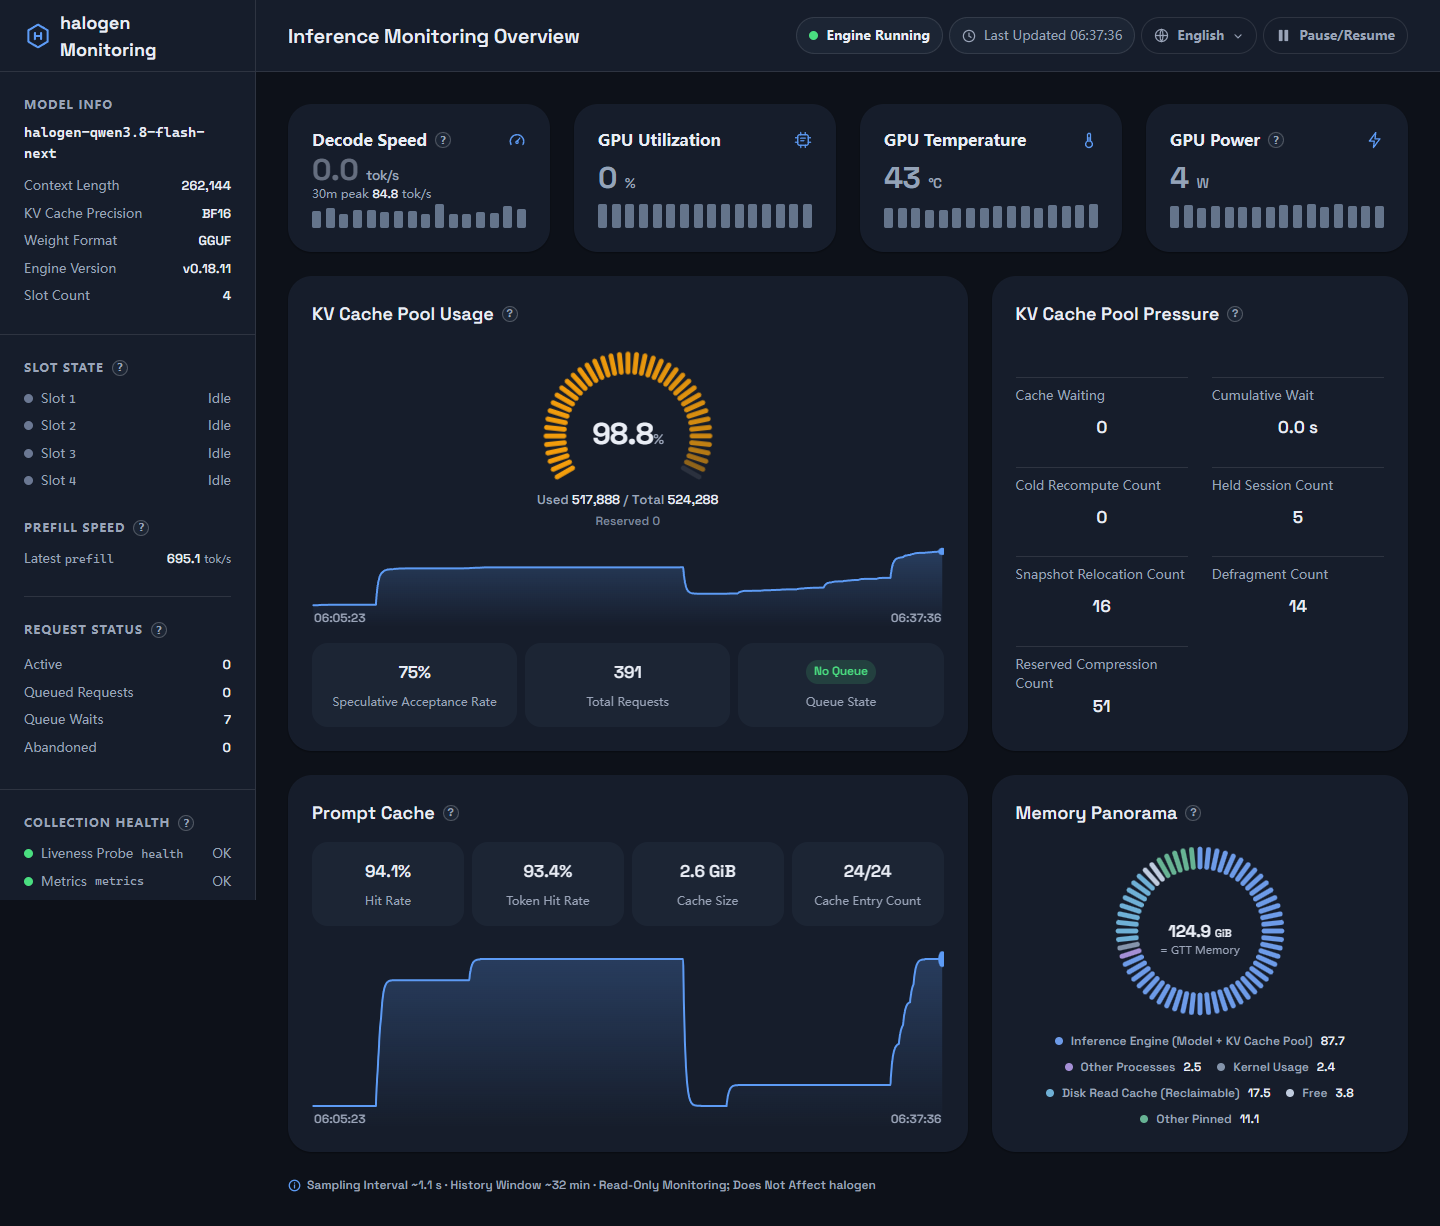
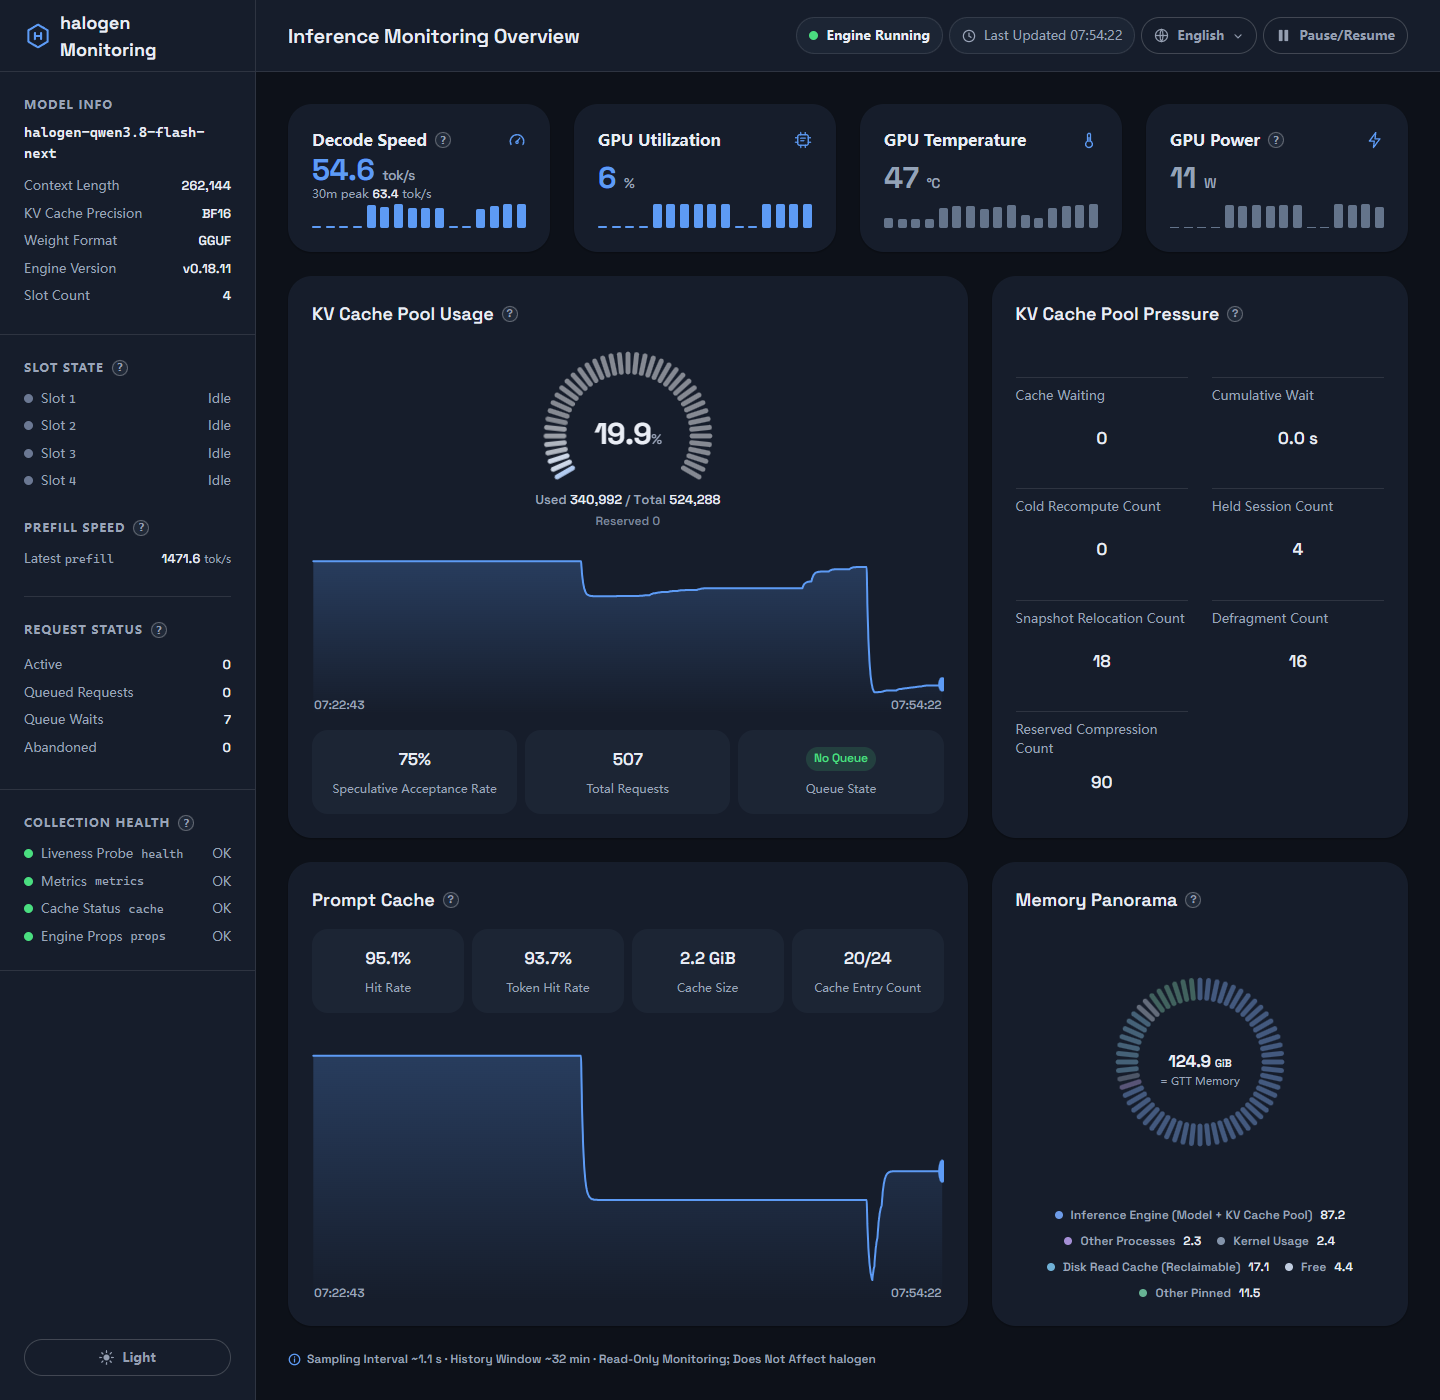
docs: fix speed formula, conn-timeout purpose, remove placeholders; add demo mode & expected output; reshoot hero shots

diff --git a/README.md b/README.md
@@ -1,13 +1,11 @@
 <!-- Working title: `halogen-dashboard`. Once the final name is decided, perform a GLOBAL replace -->
 <!-- across README.md / README.zh-CN.md / LICENSE / CONTRIBUTING.md. -->
 
-# halogen-dashboard (working title)
+# halogen-dashboard
 
 **English** | [简体中文](README.zh-CN.md)
 
-> A single-file, read-only monitoring dashboard for a local [halogen] inference engine — GPU, memory, KV cache, slots, queueing and decode speed at a glance. No database, no build step, no agent on the engine.
-
-*(halogen: the inference engine being monitored. Replace with a link once the engine's public name/repo is settled.)*
+> A single-file, read-only monitoring dashboard for a local halogen inference engine — GPU, memory, KV cache, slots, queueing and decode speed at a glance. No database, no build step, no agent on the engine.
 
 ## Screenshots
 
@@ -31,10 +29,13 @@ Full-page view, light theme (1440 px wide). The image links to the [dark theme](
 
 ```bash
 python3 dash.py
+# halogen-dash listening on http://127.0.0.1:8873
 # then open http://127.0.0.1:8873
 ```
 
 The dashboard expects the engine at `127.0.0.1:8899` (override with `DASH_ENGINE_URL`). If port 8873 is busy it automatically falls back through 8879 and prints the actual port on stdout.
+
+No engine running? You can still see the UI: open `http://127.0.0.1:8873/?demo=sleep` (or `?demo=empty`) to preview the sleeping-model / empty state.
 
 ### Configuration
 
@@ -45,8 +46,8 @@ All settings are environment variables. They can also live in an optional `dash.
 | `DASH_ENGINE_URL` | `http://127.0.0.1:8899` | Engine base URL (accessed with `GET` only) |
 | `DASH_ENGINE_PROC` | `flash_serve` | Engine process-name marker, used to attribute engine memory in the panorama |
 | `DASH_BINDS` | `127.0.0.1` | Comma-separated bind addresses |
-| `DASH_ALLOWED_HOSTS` | *(empty)* | Extra `Host` header whitelist entries (comma-separated); bound addresses are allowed automatically |
-| `DASH_CONN_TIMEOUT` | `30` | Per-request timeout in seconds for engine polling |
+| `DASH_ALLOWED_HOSTS` | *(empty)* | Extra `Host` header whitelist entries (comma-separated); bound addresses are allowed automatically (wildcard binds are the exception — set `DASH_ALLOWED_HOSTS` explicitly) |
+| `DASH_CONN_TIMEOUT` | `30` | Per-connection socket read/write timeout for inbound dashboard connections (anti-slowloris); engine poll timeouts are fixed in code (2–8 s) |
 | `DASH_MAX_CONNS` | `64` | Maximum simultaneous dashboard connections |
 
 Example `dash.config`:
@@ -70,7 +71,7 @@ Typical deployment: the dashboard runs on the same machine as the engine and is 
 
 Both speed figures are differences of counters the engine itself reports; the dashboard adds no estimation of its own.
 
-- **Decode speed** = Δ(`tokens_predicted_total`) / Δ(wall clock) over a 15-second sliding window of active samples. There is no artificial cap. The engine advances the counter when requests complete, so the value holds its last window reading while a request is in flight and decays to 0 once the window slides empty (idle for more than 15 s). The card's secondary value is the maximum over the last 30 minutes.
+- **Decode speed** = total tokens produced in the window ÷ pure generation time × concurrency, over a 15-second sliding window of completed requests. There is no artificial cap. The engine advances the counter when requests complete, so the value holds its last window reading while a request is in flight and decays to 0 once the window slides empty (idle for more than 15 s). The card's secondary value is the maximum over the last 30 minutes.
 - **Prefill speed** = Δ(`prompt_tokens_total`) / Δ(`prompt_seconds_total`) for the most recent prefill burst; the reading is held until the next burst starts.
 
 ## Metric FAQ

diff --git a/README.zh-CN.md b/README.zh-CN.md
@@ -1,12 +1,10 @@
 <!-- 工作名：`halogen-dashboard`。最终命名确定后，在 README.md / README.zh-CN.md / LICENSE / CONTRIBUTING.md 中全局替换。 -->
 
-# halogen-dashboard（工作名）
+# halogen-dashboard
 
 [English](README.md) | **简体中文**
 
 > 单文件、只读的本地 halogen 推理引擎监控仪表盘——GPU、内存、KV 缓存、槽位、排队与解码速度一目了然。无数据库、无构建步骤、引擎侧零探针。
-
-*（halogen：被监控的推理引擎。其公开名称/仓库确定后，此处将替换为链接。）*
 
 ## 截图
 
@@ -30,10 +28,13 @@
 
 ```bash
 python3 dash.py
+# halogen-dash listening on http://127.0.0.1:8873
 # 然后打开 http://127.0.0.1:8873
 ```
 
 仪表盘默认访问 `127.0.0.1:8899` 上的引擎（可用 `DASH_ENGINE_URL` 修改）。若 8873 端口被占用，自动向后回退至 8879，并在控制台打印实际端口。
+
+没有引擎也能看：打开 `http://127.0.0.1:8873/?demo=sleep`（或 `?demo=empty`）即可预览模型待命/空态界面。
 
 ### 配置
 
@@ -44,8 +45,8 @@ python3 dash.py
 | `DASH_ENGINE_URL` | `http://127.0.0.1:8899` | 引擎地址（仅以 `GET` 访问） |
 | `DASH_ENGINE_PROC` | `flash_serve` | 引擎进程名标记，用于内存全景中归属引擎内存 |
 | `DASH_BINDS` | `127.0.0.1` | 逗号分隔的监听地址 |
-| `DASH_ALLOWED_HOSTS` | *（空）* | `Host` 白名单补充项（逗号分隔）；已绑定地址自动放行 |
-| `DASH_CONN_TIMEOUT` | `30` | 引擎轮询的单请求超时（秒） |
+| `DASH_ALLOWED_HOSTS` | *（空）* | `Host` 白名单补充项（逗号分隔）；已绑定地址自动放行（通配绑定除外——此时需显式设置 `DASH_ALLOWED_HOSTS`） |
+| `DASH_CONN_TIMEOUT` | `30` | 仪表盘入站连接的单连接 socket 读写超时（秒，防 slowloris）；引擎轮询超时为代码内固定值（2–8 秒） |
 | `DASH_MAX_CONNS` | `64` | 仪表盘最大并发连接数 |
 
 `dash.config` 示例：
@@ -69,7 +70,7 @@ DASH_ALLOWED_HOSTS=my-host
 
 两个速度数字都是引擎自报计数器的差值，仪表盘不做任何自行估算。
 
-- **解码速度** = Δ(`tokens_predicted_total`) / Δ(墙上时间)，在 15 秒滑动窗口的活跃样本上计算，无任何人为封顶。引擎在请求完成时推进计数器，因此生成进行中显示上一窗口值，空闲超过 15 秒（窗口滑空）后归零。卡片副值为最近 30 分钟内的最高值。
+- **解码速度** = 窗口内产出 token 总量 ÷ 纯生成耗时 × 并发度（15 秒滑动窗口，按完成拍聚合），无任何人为封顶。引擎在请求完成时推进计数器，因此生成进行中显示上一窗口值，空闲超过 15 秒（窗口滑空）后归零。卡片副值为最近 30 分钟内的最高值。
 - **预填充速度** = Δ(`prompt_tokens_total`) / Δ(`prompt_seconds_total`)，对应最近一次 prefill 突发；突发结束后保持该值，直到下一次突发开始。
 
 ## 指标口径 FAQ

diff --git a/CONTRIBUTING.md b/CONTRIBUTING.md
@@ -6,7 +6,7 @@ Thanks for helping! This project is a **single-file** read-only monitoring dashb
 
 - One bug / one feature per issue.
 - For bugs, include: browser + version, dashboard language & theme, what you expected vs. what you saw, and (if display-related) a screenshot.
-- For metric-semantics questions, check the FAQ in [README](README.md#metric-faq) first — several "bugs" are actually intentional metric definitions (e.g. Reserved ⊂ Used).
+- For metric-semantics questions, check the FAQ in [README](README.md#metric-faq) first — several "bugs" are actually intentional metric definitions (e.g. Reserved is not a subset of Used).
 
 ## Pull Requests
 
@@ -25,7 +25,7 @@ git commit -s
 ## Code style
 
 - **Stay single-file.** Everything ships in `dash.py`; no new modules, no third-party dependencies (Python 3 stdlib only).
-- The file is organized by **comment banners into zones** — presentation layer (HTML/CSS/JS), collection layer (engine polling), and the **S2 security zone** (binds, Host whitelist, response headers). Keep changes inside the zone they belong to and don't move code across zones casually.
+- The file is organized by **comment banners into zones** — presentation layer (HTML/CSS/JS), collection layer (engine polling), and the **S2 security zone** (binds, Host whitelist, response headers). Keep changes inside the zone they belong to and don't move code across zones casually. Zone banner comments in the source are in Chinese; the zone map above is the English reference.
 - Follow the existing naming and formatting of the zone you touch; comments explaining *why* are welcome, comments restating *what* are not.
 
 ## License
